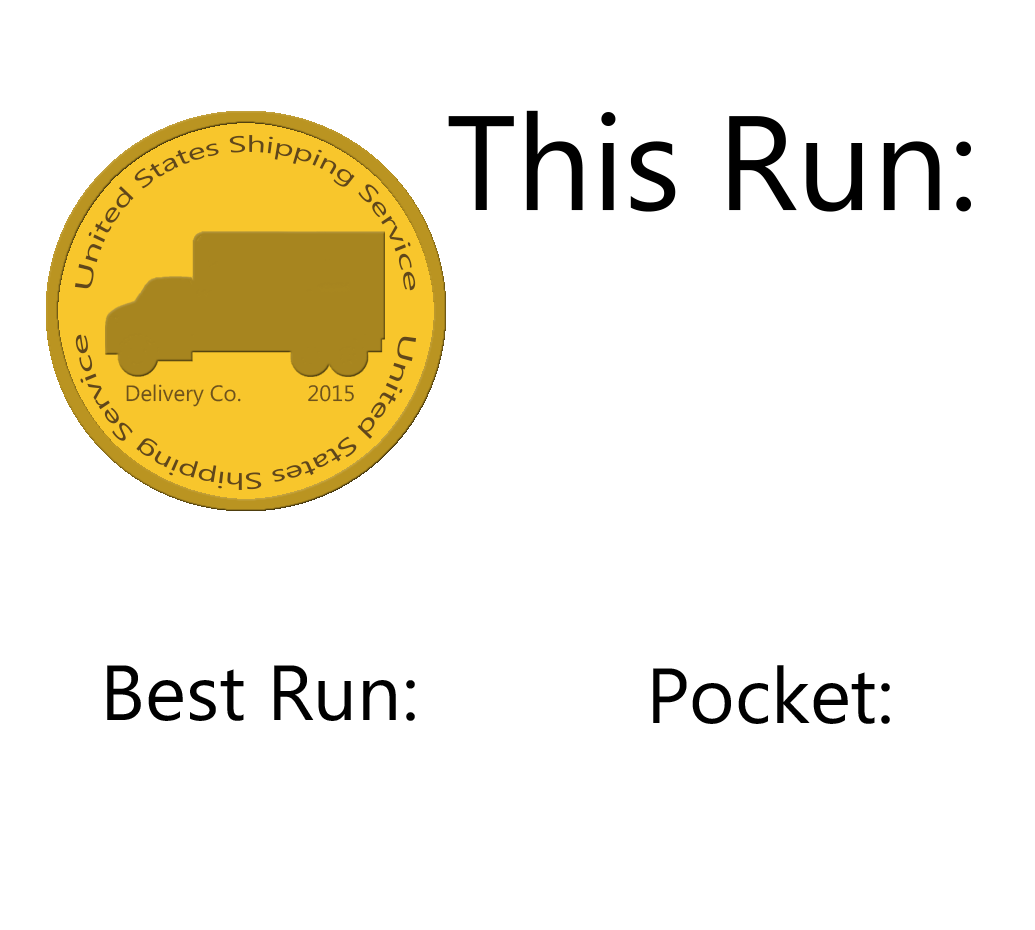
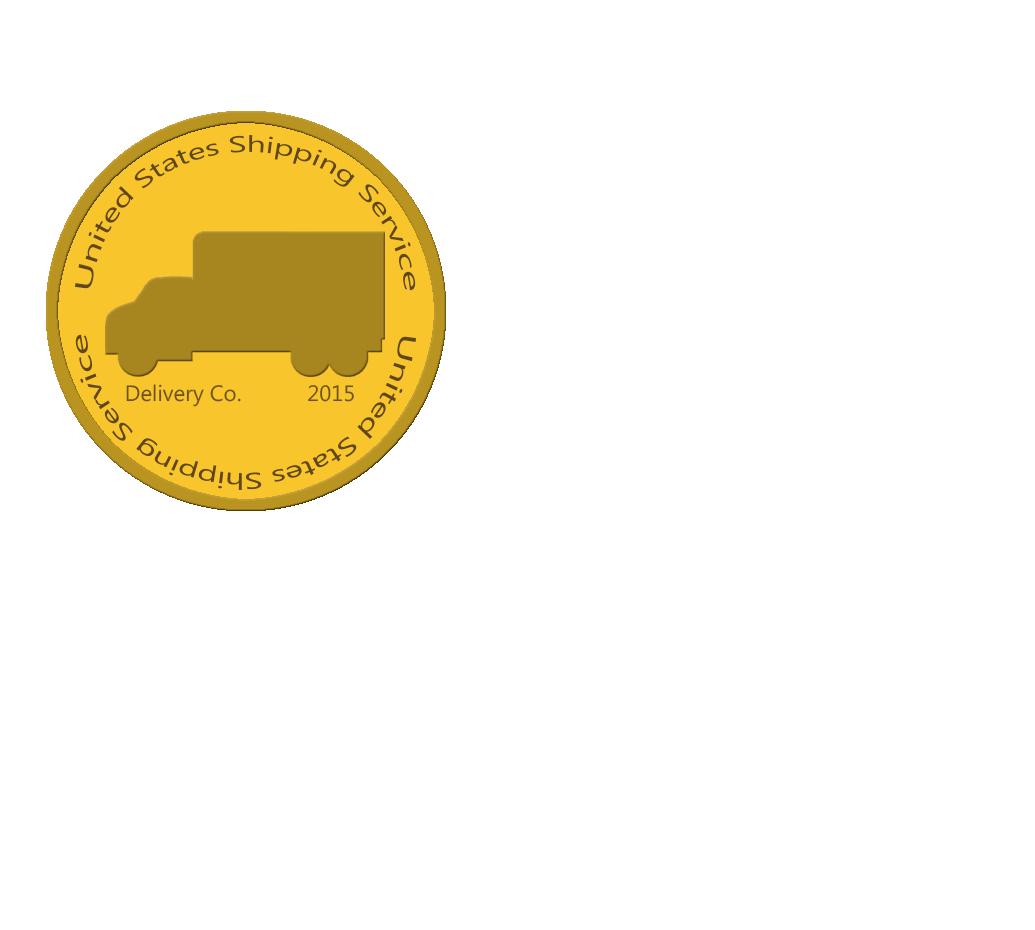
Finally fix game over screen

diff --git a/GameOver.m b/GameOver.m
@@ -83,8 +83,8 @@
     CCActionMoveTo *moveMenu = [CCActionMoveTo actionWithDuration:.25 position:ccp(160, _mainMenu.position.y)];
 //    CCActionMoveTo *moveCars = [CCActionMoveTo actionWithDuration:.25 position:ccp(201, _carsButton.position.y)];
     CCActionMoveTo *moveScore = [CCActionMoveTo actionWithDuration:.25 position:ccp(209, _gameOverCount.position.y)];
-    CCActionMoveTo *moveBest = [CCActionMoveTo actionWithDuration:.25 position:ccp(106, _bestCoin.position.y)];
-    CCActionMoveTo *movePocket = [CCActionMoveTo actionWithDuration:.25 position:ccp(233, _pocketCoin.position.y)];
+    CCActionMoveTo *moveBest = [CCActionMoveTo actionWithDuration:.25 position:ccp(97, _bestCoin.position.y)];
+    CCActionMoveTo *movePocket = [CCActionMoveTo actionWithDuration:.25 position:ccp(223, _pocketCoin.position.y)];
     
     [_gameOverBackground runAction:moveBackground];
     [_restartButton runAction:moveRestart];
